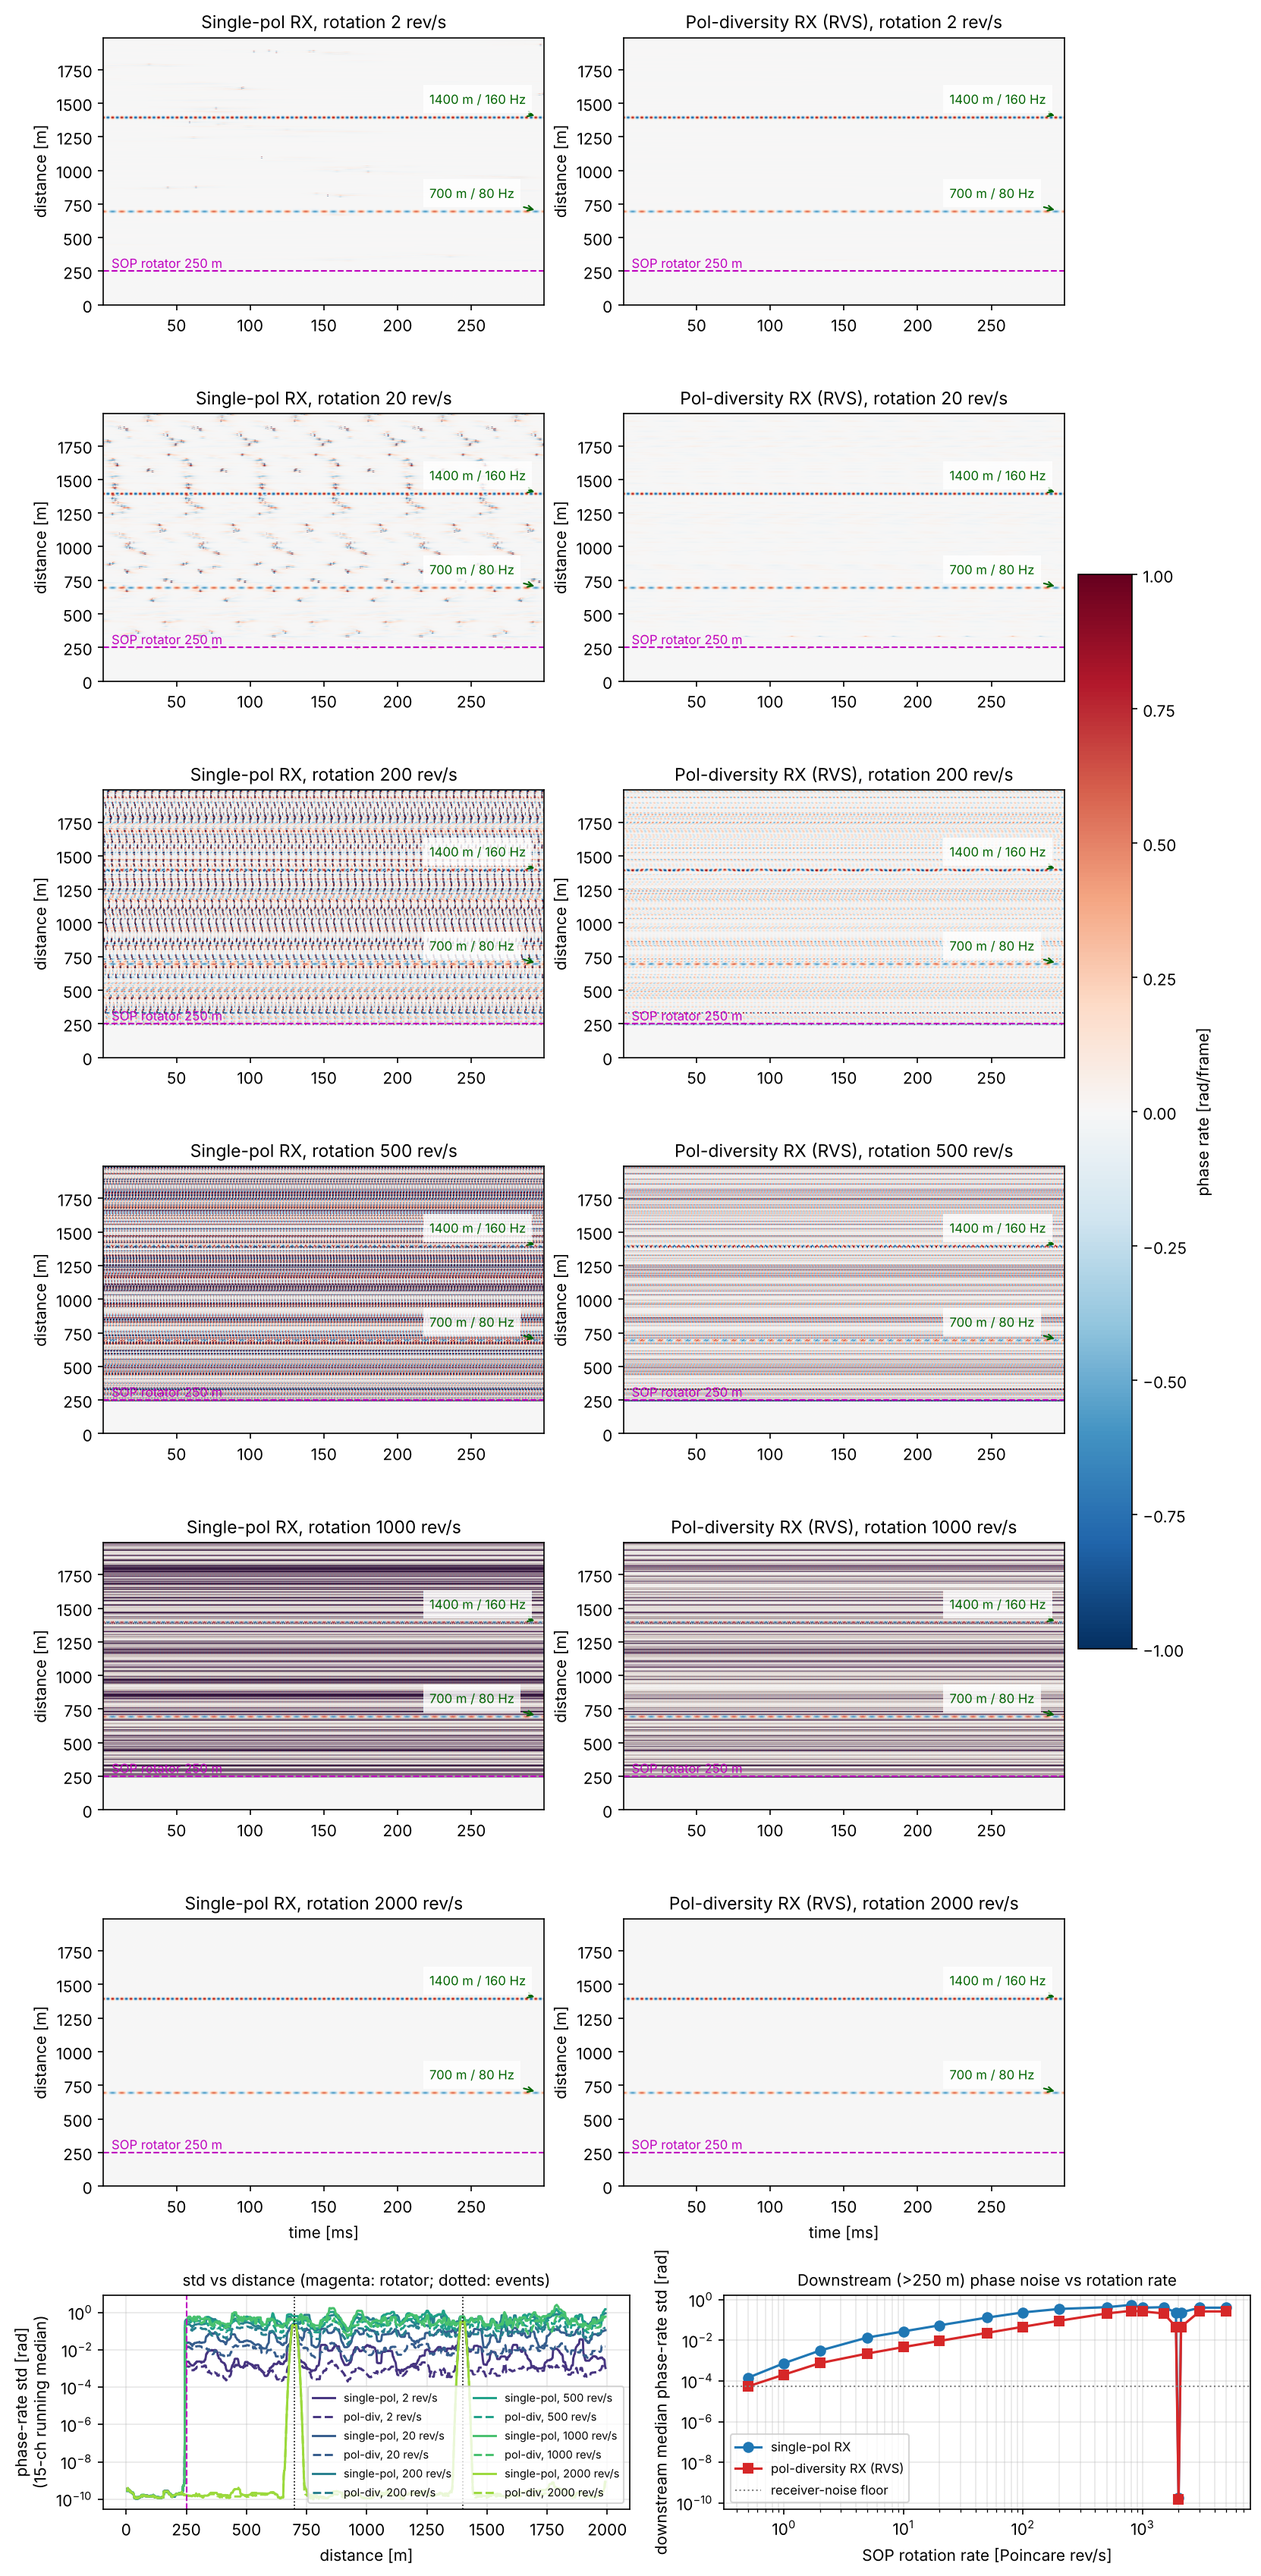
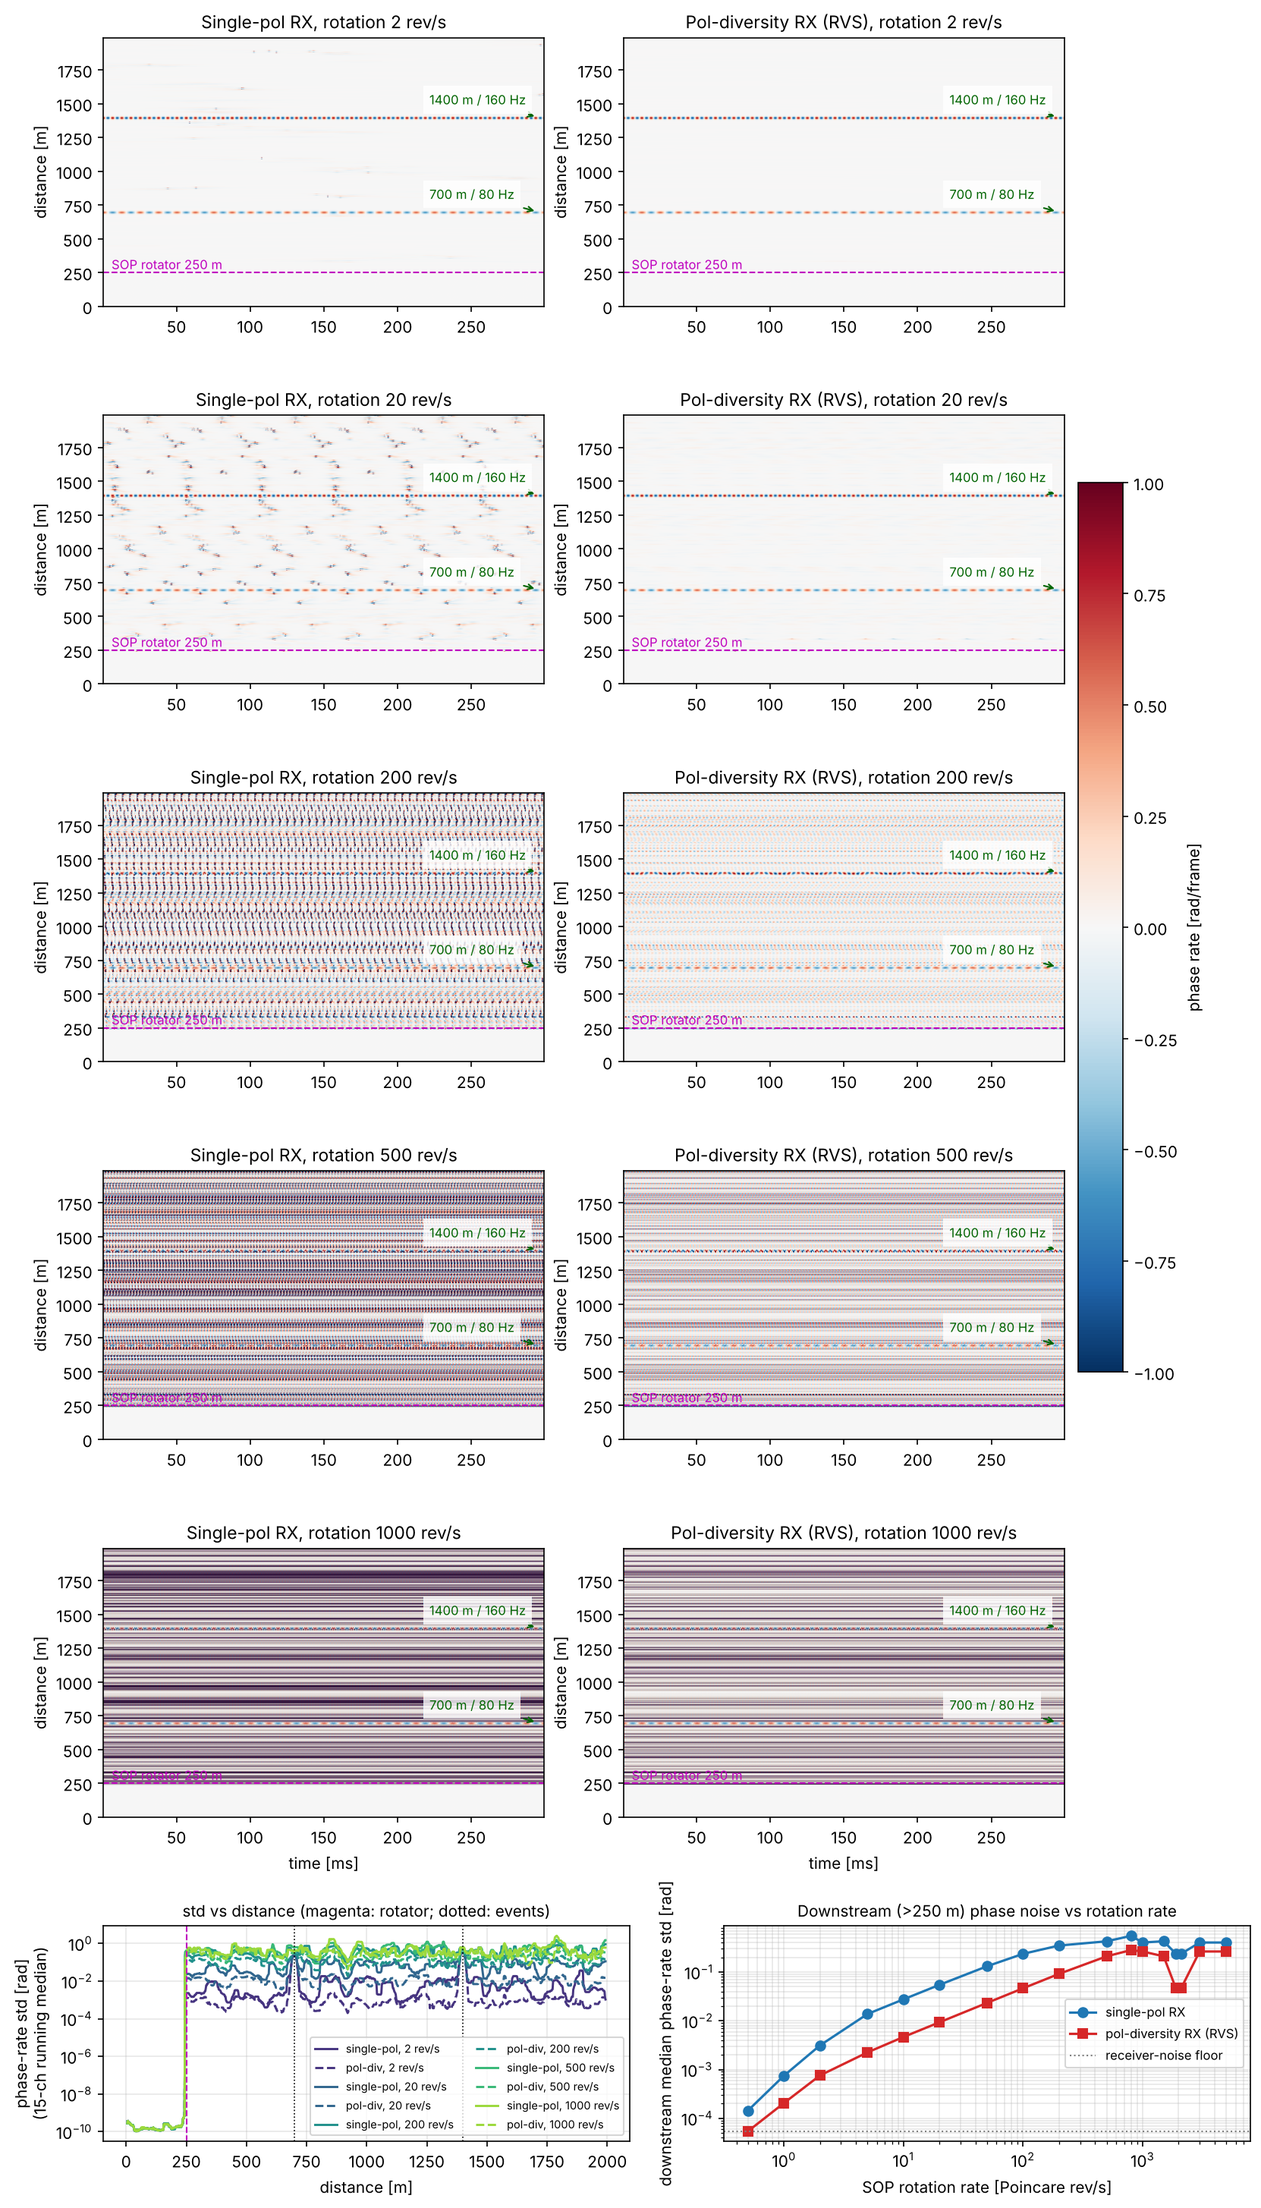
Drop idealized 2000 rev/s strobe point from combined figure
Claude-Session: https://claude.ai/code/session_011iVmDm7Yi46ahHjzSCFXXh

diff --git a/experiments/exp_das_sop_rotation.py b/experiments/exp_das_sop_rotation.py
@@ -42,9 +42,9 @@ if len(sys.argv) > 1 and sys.argv[1] == "fast":
                    3000, 5000]
     OUT_PNG = "results/fig_das_sop_rotation_rate_fast.png"
 elif len(sys.argv) > 1 and sys.argv[1] == "all":
-    RATES_WF = [2.0, 20.0, 200.0, 500.0, 1000.0, 2000.0]
+    RATES_WF = [2.0, 20.0, 200.0, 500.0, 1000.0]
     RATES_SWEEP = [0.5, 1, 2, 5, 10, 20, 50, 100, 200, 500, 800, 1000,
-                   1500, 1900, 2000, 2100, 3000, 5000]
+                   1500, 1900, 2100, 3000, 5000]
     OUT_PNG = "results/fig_das_sop_rotation_rate_all.png"
 
 # optional second CLI arg: receiver SNR in dB (e.g. 200 = noise-free)
